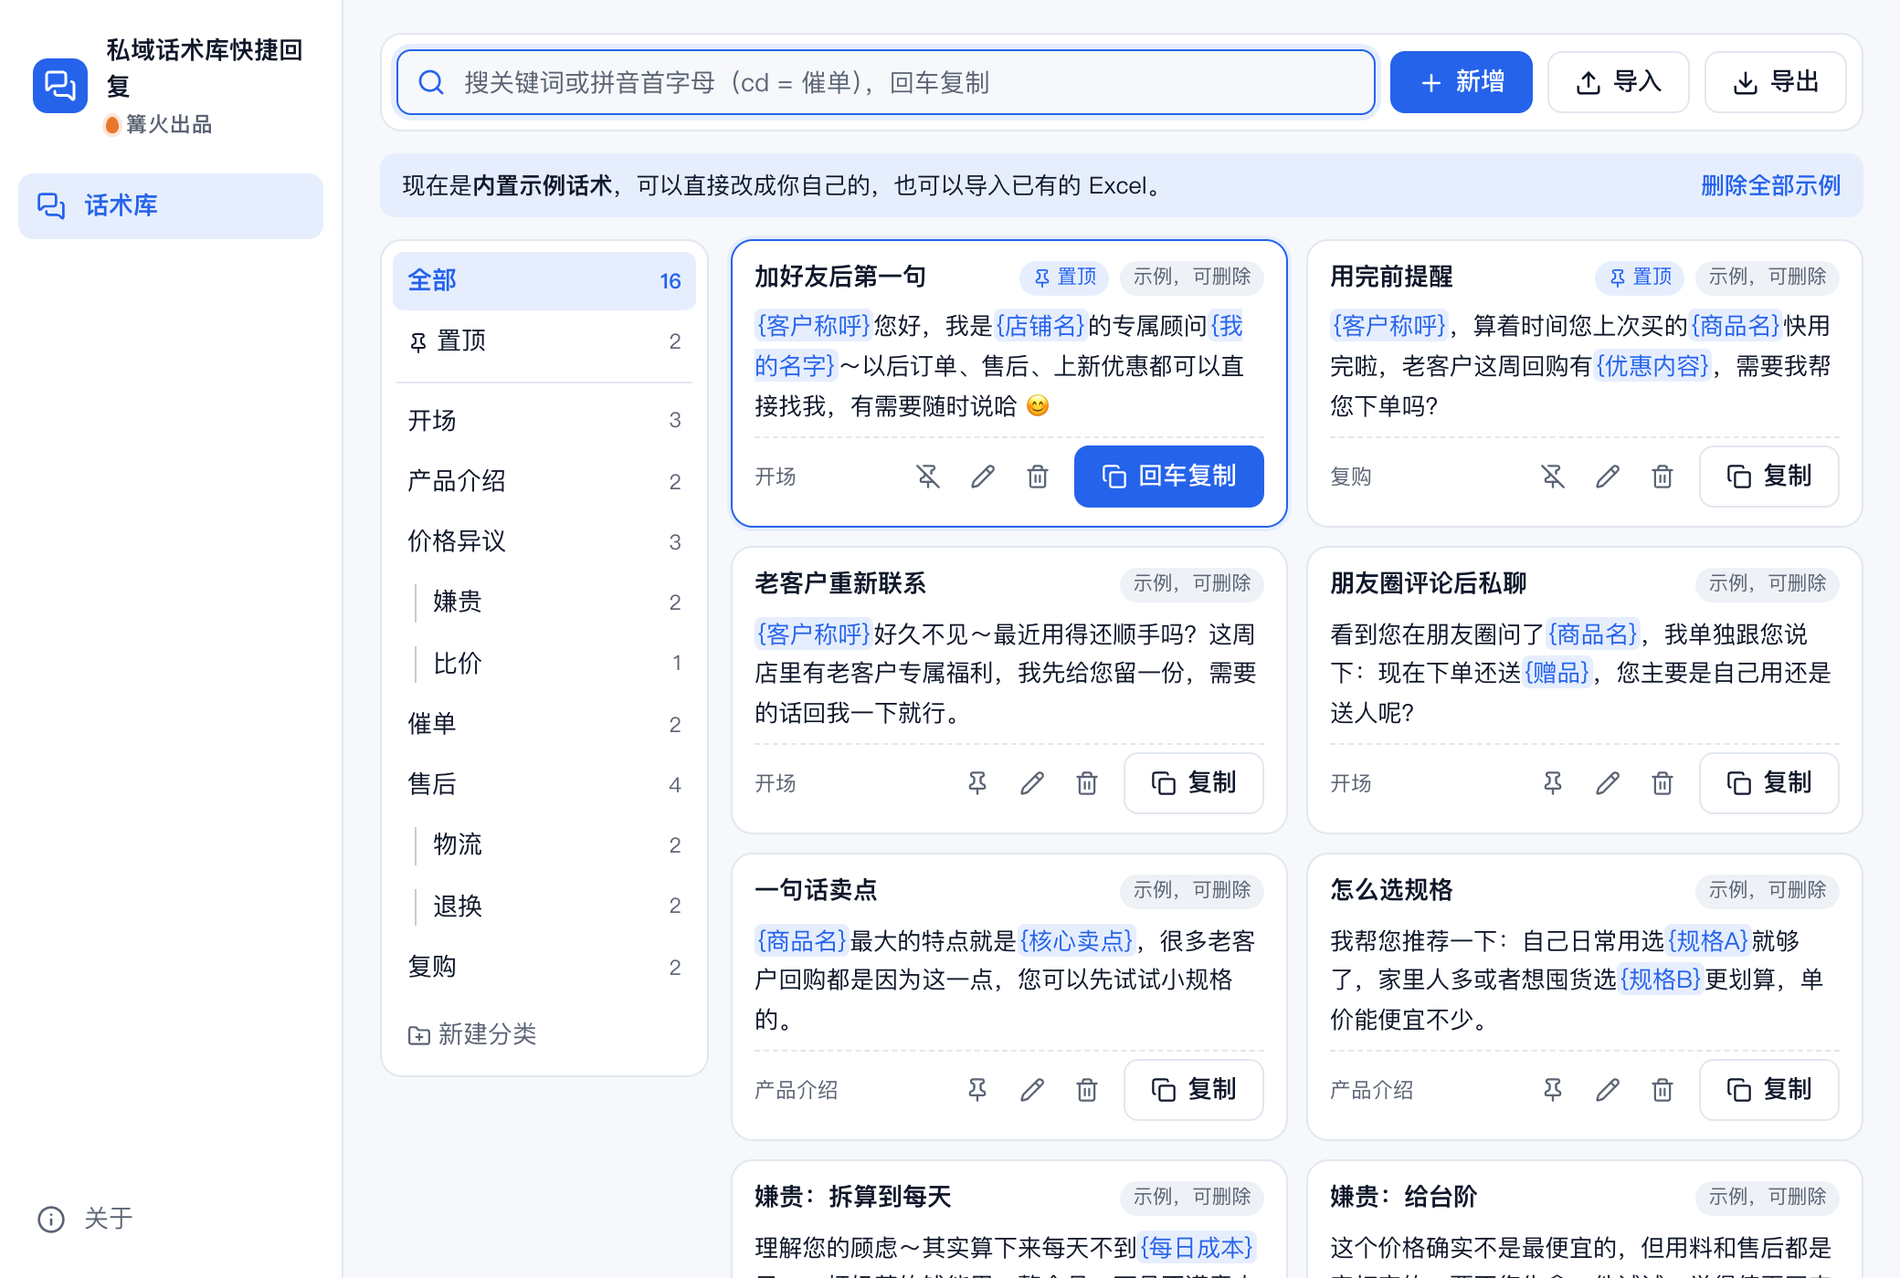
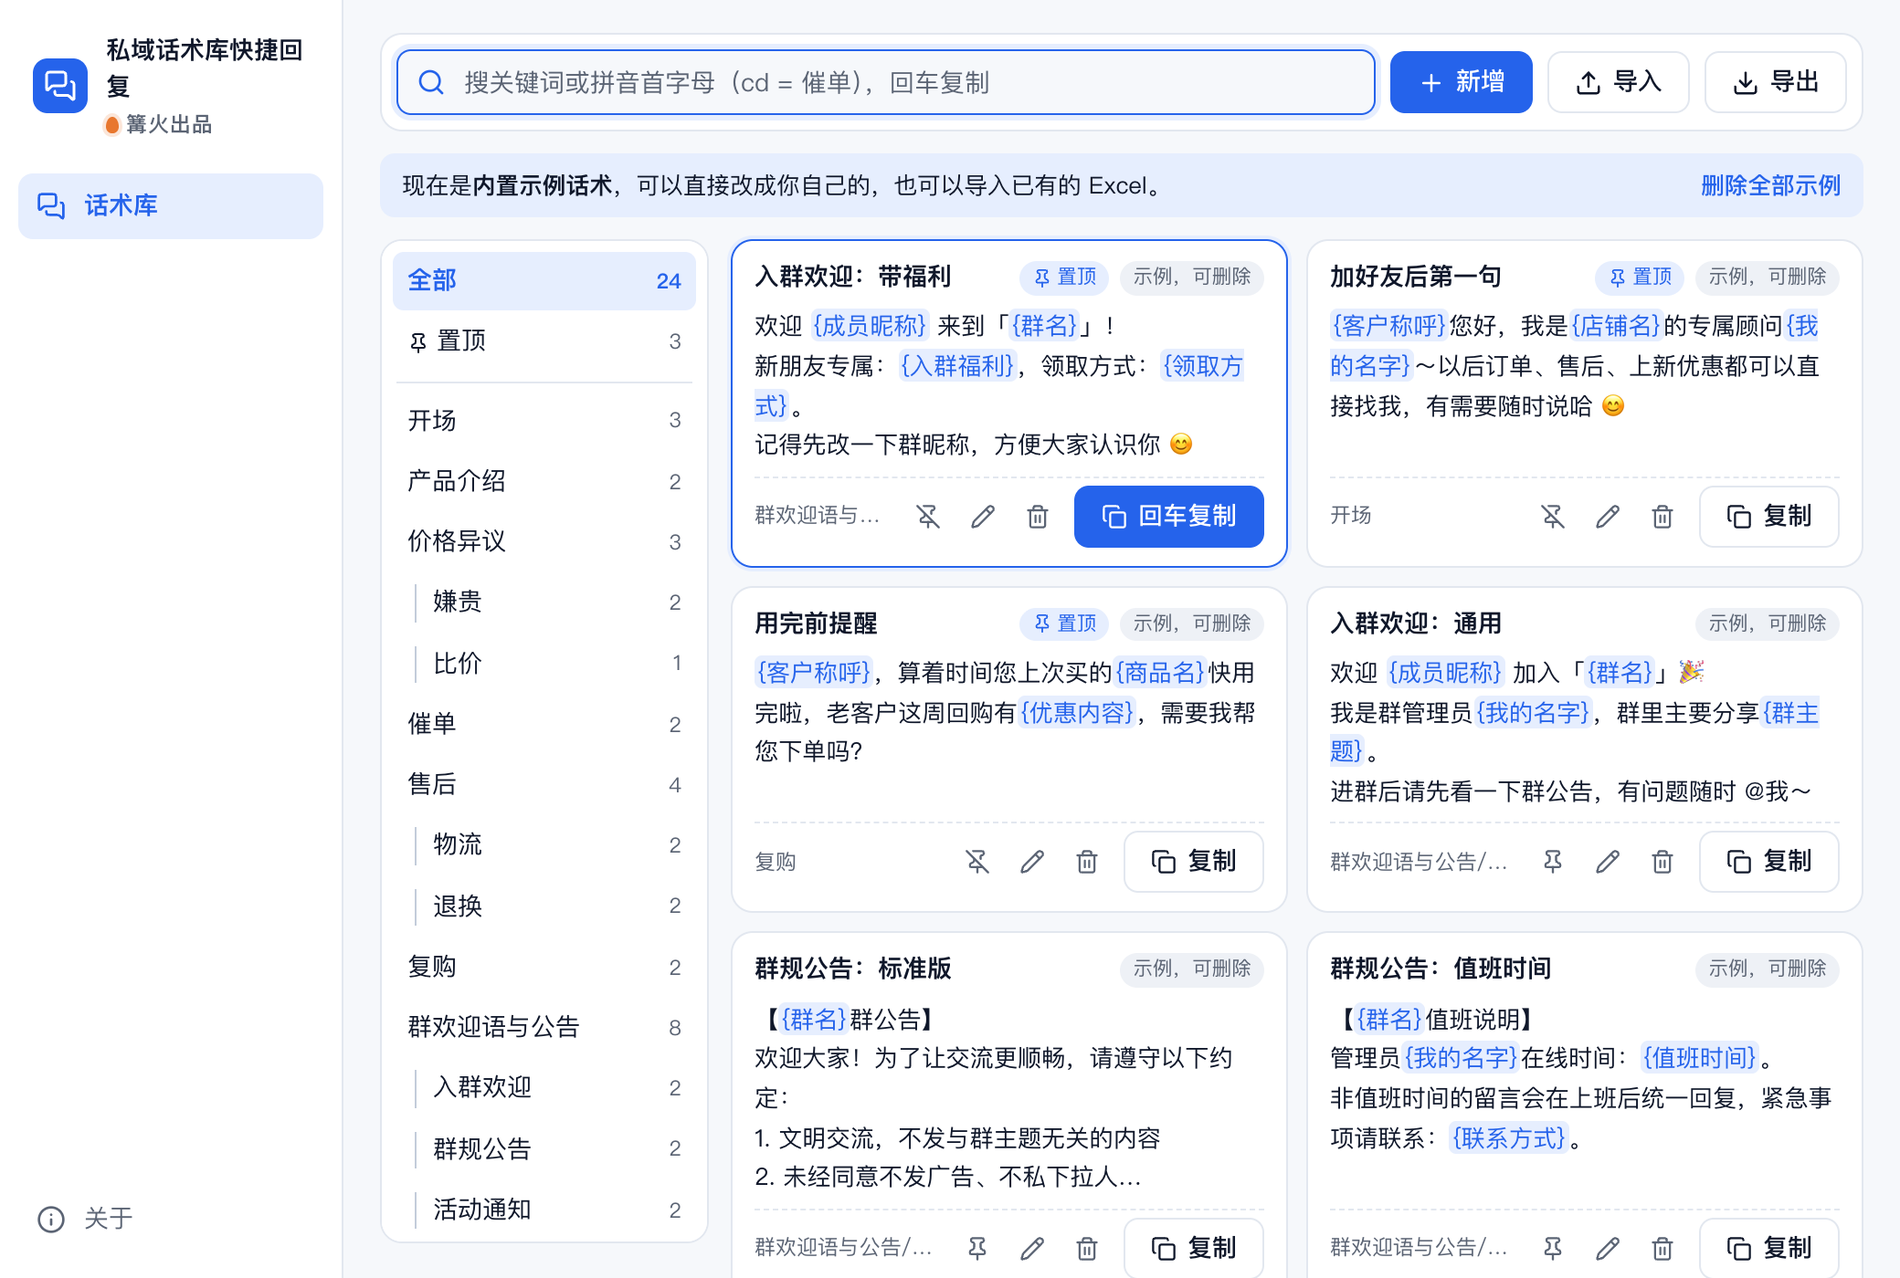
0.2.0：新增「群欢迎语与公告」模板分类（并入 w14），变量填写后输出标准文本

diff --git a/src/tool/core.test.ts b/src/tool/core.test.ts
@@ -1,9 +1,9 @@
 import { describe, expect, it } from 'vitest';
 import {
-  addCat, catTree, fillVars, fromJson, fromRows, initials, markUsed, mergeImport, normCat, parseVars, removeCat, removeSamples, renameCat, search, toRows,
+  addCat, catTree, fillVars, fromJson, normalizeText, fromRows, initials, markUsed, mergeImport, normCat, parseVars, removeCat, removeSamples, renameCat, search, toRows,
   togglePin, upsert, validLibrary, type Library, type Script,
 } from './core';
-import { sampleLibrary } from './samples';
+import { GROUP_CAT, GROUP_SEED, GROUP_SUBCATS, groupScripts, sampleLibrary, seedGroupTemplates } from './samples';
 
 const sc = (id: string, cat: string, title: string, text: string, extra: Partial<Script> = {}): Script => ({ id, cat, title, text, updatedAt: 0, ...extra });
 const lib = (scripts: Script[], cats: string[] = []): Library => ({ version: 1, cats, scripts });
@@ -136,5 +136,52 @@ describe('内置示例', () => {
     expect(l.scripts.every((s) => s.sample)).toBe(true);
     const tops = new Set(l.scripts.map((s) => s.cat.split('/')[0]));
     expect([...tops]).toEqual(['开场', '产品介绍', '价格异议', '催单', '售后', '复购']);
+  });
+});
+
+describe('群欢迎语 / 群公告模板（0.2.0）', () => {
+  const base = (): Library => ({ version: 1, cats: ['开场'], scripts: [sc('a', '开场', '旧话术', '你好')] });
+  it('内置 8 条模板，分四个二级分类，全部有变量，且都标示例', () => {
+    const g = groupScripts();
+    expect(g).toHaveLength(8);
+    expect(new Set(g.map((s) => s.cat))).toEqual(new Set(GROUP_SUBCATS.map((c) => `${GROUP_CAT}/${c}`)));
+    expect(g.every((s) => s.sample && parseVars(s.text).length >= 2)).toBe(true);
+    expect(new Set(g.map((s) => s.id)).size).toBe(8);
+  });
+  it('旧库补入一次：保留原有话术，登记分类和 seeded', () => {
+    const l = seedGroupTemplates(base());
+    expect(l.scripts).toHaveLength(9);
+    expect(l.scripts[0].id).toBe('a');
+    expect(l.seeded).toEqual([GROUP_SEED]);
+    expect(catTree(l).find((n) => n.path === GROUP_CAT)?.count).toBe(8);
+  });
+  it('已经补过的库不再补；用户删掉模板后也不会再出现', () => {
+    const once = seedGroupTemplates(base());
+    expect(seedGroupTemplates(once)).toBe(once);
+    const deleted = removeSamples(once);
+    expect(seedGroupTemplates(deleted).scripts.length).toBe(deleted.scripts.length);
+  });
+  it('seeded 能通过本机存储校验保留下来', () => {
+    expect(validLibrary(seedGroupTemplates(base()))?.seeded).toEqual([GROUP_SEED]);
+  });
+  it('分类和搜索：搜「群」「入群欢迎」能找到；拼音首字母 rqhy 命中入群欢迎', () => {
+    const l = seedGroupTemplates(base());
+    expect(search(l.scripts, '入群欢迎').length).toBe(2);
+    expect(search(l.scripts, 'rqhy').length).toBeGreaterThanOrEqual(2);
+    expect(search(l.scripts, '', GROUP_CAT).length).toBe(8);
+  });
+  it('变量替换：{群名}、{活动时间} 等替换为填写的值，没填的保留原样', () => {
+    const t = groupScripts().find((s) => s.title === '活动通知：标准版')!;
+    const out = fillVars(t.text, { 活动名: '示例沙龙', 活动时间: '10 月 30 日 19:30', 活动地点: '线上' });
+    expect(out).toContain('【示例沙龙】');
+    expect(out).toContain('时间：10 月 30 日 19:30');
+    expect(out).toContain('内容：{活动内容}');
+    const w = groupScripts().find((s) => s.title === '入群欢迎：通用')!;
+    expect(fillVars(w.text, { 群名: '示例群', 成员昵称: '小明' })).toContain('欢迎 小明 加入「示例群」');
+  });
+  it('输出标准文本：统一换行、去行尾空格、压缩多余空行、去首尾空白', () => {
+    expect(normalizeText('  第一行  \r\n第二行\t\r\n\r\n\r\n\r\n第三行\r\n')).toBe('第一行\n第二行\n\n第三行');
+    const t = groupScripts()[0];
+    expect(normalizeText(fillVars(t.text, { 群名: '示例群', 成员昵称: '小明', 我的名字: '小管', 群主题: '示例主题' }))).not.toMatch(/\r| \n/);
   });
 });

diff --git a/src/tool/samples.ts b/src/tool/samples.ts
@@ -27,3 +27,34 @@ export function sampleLibrary(): Library {
   const scripts: Script[] = S.map(([cat, title, text, pinned], i) => ({ id: `demo${i + 1}`, cat, title, text, pinned: pinned || undefined, sample: true, updatedAt: t - i * 60_000 }));
   return { version: 1, cats: [...SAMPLE_CATS], scripts };
 }
+
+// ---------- 群欢迎语 / 群公告模板（0.2.0 新增） ----------
+// 文案为本工具作者编写的通用示例，可随意修改；变量用大括号，复制前会弹出填写框。不涉及具体品牌，也不包含任何平台规则。
+export const GROUP_SEED = 'group-v1';
+export const GROUP_CAT = '群欢迎语与公告';
+const G: [string, string, string, boolean?][] = [
+  ['入群欢迎', '入群欢迎：通用', '欢迎 {成员昵称} 加入「{群名}」🎉\n我是群管理员{我的名字}，群里主要分享{群主题}。\n进群后请先看一下群公告，有问题随时 @我～'],
+  ['入群欢迎', '入群欢迎：带福利', '欢迎 {成员昵称} 来到「{群名}」！\n新朋友专属：{入群福利}，领取方式：{领取方式}。\n记得先改一下群昵称，方便大家认识你 😊', true],
+  ['群规公告', '群规公告：标准版', '【{群名}群公告】\n欢迎大家！为了让交流更顺畅，请遵守以下约定：\n1. 文明交流，不发与群主题无关的内容\n2. 未经同意不发广告、不私下拉人\n3. 有问题先看群公告，再 @{我的名字}\n感谢配合 🙏'],
+  ['群规公告', '群规公告：值班时间', '【{群名}值班说明】\n管理员{我的名字}在线时间：{值班时间}。\n非值班时间的留言会在上班后统一回复，紧急事项请联系：{联系方式}。'],
+  ['活动通知', '活动通知：标准版', '【{活动名}】\n时间：{活动时间}\n地点 / 方式：{活动地点}\n内容：{活动内容}\n报名：{报名方式}\n名额有限，先到先得，欢迎转发给身边的朋友～'],
+  ['活动通知', '活动通知：截止提醒', '【{活动名}】报名提醒⏰\n距离报名截止还有最后一段时间，截止时间：{报名截止时间}。\n还没报名的朋友请通过 {报名方式} 尽快完成，错过要等下一期啦。'],
+  ['开课提醒', '开课提醒：开课前', '【{课程名}开课提醒】\n各位同学好！课程将于 {开课时间} 开始，上课方式：{上课方式}。\n请提前 10 分钟进入，资料已发在群文件，有问题请联系{我的名字}。'],
+  ['开课提醒', '开课提醒：课后作业', '【{课程名}课后提醒】\n今天的内容已结束，课后任务：{作业内容}，请在 {提交时间} 前提交到{提交方式}。\n有不明白的地方，欢迎在群里提问。'],
+];
+export const GROUP_SUBCATS = ['入群欢迎', '群规公告', '活动通知', '开课提醒'];
+
+export function groupScripts(): Script[] {
+  const t = Date.UTC(2026, 9, 24);
+  return G.map(([sub, title, text, pinned], i) => ({ id: `grp${i + 1}`, cat: `${GROUP_CAT}/${sub}`, title, text, pinned: pinned || undefined, sample: true, updatedAt: t - i * 60_000 }));
+}
+
+/** 把群欢迎语 / 群公告模板放进话术库：每个库只放一次（记在 seeded 里），用户删掉后不会再出现；已有同分类同内容的不重复添加 */
+export function seedGroupTemplates(lib: Library): Library {
+  if (lib.seeded?.includes(GROUP_SEED)) return lib;
+  const have = new Set(lib.scripts.map((s) => `${s.cat}\u0000${s.text}`));
+  const fresh = groupScripts().filter((s) => !have.has(`${s.cat}\u0000${s.text}`));
+  const cats = [...lib.cats];
+  for (const c of [GROUP_CAT, ...GROUP_SUBCATS.map((x) => `${GROUP_CAT}/${x}`)]) if (!cats.includes(c)) cats.push(c);
+  return { ...lib, cats, scripts: [...lib.scripts, ...fresh], seeded: [...(lib.seeded ?? []), GROUP_SEED] };
+}

diff --git a/src/tool/core.ts b/src/tool/core.ts
@@ -19,6 +19,8 @@ export interface Library {
   /** 分类顺序（包括还没有话术的空分类） */
   cats: string[];
   scripts: Script[];
+  /** 已经放进库里的内置模板包（如 'group-v1'），避免用户删掉后下次打开又冒出来 */
+  seeded?: string[];
 }
 
 let seq = 0;
@@ -133,6 +135,11 @@ export function parseVars(text: string): string[] {
     if (name && !out.includes(name)) out.push(name);
   }
   return out;
+}
+
+/** 输出标准文本：统一换行为 \n，去掉每行行尾空格，连续空行压成一行，去掉首尾空白 */
+export function normalizeText(text: string): string {
+  return text.replace(/\r\n?/g, '\n').split('\n').map((l) => l.replace(/[ \t\u3000]+$/, '')).join('\n').replace(/\n{3,}/g, '\n\n').trim();
 }
 
 /** 把变量替换成填写的值；没填的变量原样保留，避免误发出空白 */
@@ -282,7 +289,8 @@ export function validLibrary(v: unknown): Library | null {
   const o = v as Library;
   if (!o || o.version !== 1 || !Array.isArray(o.cats) || !Array.isArray(o.scripts)) return null;
   const scripts = o.scripts.filter((s) => s && typeof s.id === 'string' && typeof s.text === 'string' && typeof s.cat === 'string');
-  return { version: 1, cats: o.cats.filter((c) => typeof c === 'string'), scripts: scripts.map((s) => ({ ...s, title: String(s.title ?? ''), updatedAt: Number(s.updatedAt) || 0 })) };
+  const seeded = Array.isArray(o.seeded) ? o.seeded.filter((c) => typeof c === 'string') : undefined;
+  return { version: 1, seeded, cats: o.cats.filter((c) => typeof c === 'string'), scripts: scripts.map((s) => ({ ...s, title: String(s.title ?? ''), updatedAt: Number(s.updatedAt) || 0 })) };
 }
 
 export const toJson = (lib: Library) => JSON.stringify({ ...lib, exportedBy: '篝火 · 私域话术库快捷回复' }, null, 2);

diff --git a/src/tool/Main.tsx b/src/tool/Main.tsx
@@ -5,7 +5,7 @@ import { save } from '@tauri-apps/plugin-dialog';
 import type { RunContext } from '../kit/types';
 import { onFileDrop, pickFiles, reveal } from '../kit/platform';
 import {
-  addCat, catTree, fillVars, markUsed, newId, normCat, parseVars, removeCat, removeSamples, removeScript, renameCat, search, togglePin, upsert,
+  addCat, catTree, fillVars, markUsed, newId, normCat, normalizeText, parseVars, removeCat, removeSamples, removeScript, renameCat, search, togglePin, upsert,
   type Library, type Script,
 } from './core';
 import { exportFile, importFile, IMPORT_EXT, type FileIO } from './io';
@@ -21,7 +21,7 @@ type Dialog =
   | { kind: 'cat'; from: string | null; value: string }
   | null;
 
-const QUICK_VARS = ['客户称呼', '我的名字', '店铺名', '商品名', '优惠内容'];
+const QUICK_VARS = ['客户称呼', '我的名字', '店铺名', '商品名', '优惠内容', '群名', '活动时间'];
 
 /** 把话术里的 {变量} 标出来 */
 function Highlight({ text }: { text: string }) {
@@ -278,7 +278,7 @@ export function QuickReply({ ctx }: { ctx: Ctx }) {
               const v = { ...vars, ...values };
               setVars(v);
               saveVars(v);
-              writeClipboard(fillVars(dialog.script.text, values), dialog.script);
+              writeClipboard(normalizeText(fillVars(dialog.script.text, values)), dialog.script);
               close();
             }} />}
             {dialog.kind === 'confirm' && (

diff --git a/src/tool/store.ts b/src/tool/store.ts
@@ -1,21 +1,24 @@
 // 话术库保存在本机应用数据目录的 settings.json（kit 的 settingsStore），键名 library.w12。
 import { settingsStore } from '../kit/platform';
 import { validLibrary, type Library } from './core';
-import { sampleLibrary } from './samples';
+import { sampleLibrary, seedGroupTemplates } from './samples';
 
 const KEY = 'library.w12';
 const VARS_KEY = 'vars.w12';
 
-/** 读取话术库；第一次打开或读不到（例如开发预览）时用内置示例 */
+/** 读取话术库；第一次打开或读不到（例如开发预览）时用内置示例。0.2.0 起旧库也会补入一次「群欢迎语与公告」模板（saved=false 时由界面写回） */
 export async function loadLibrary(): Promise<{ lib: Library; saved: boolean }> {
   try {
     const st = await settingsStore();
     const v = validLibrary(await st.get(KEY));
-    if (v) return { lib: v, saved: true };
+    if (v) {
+      const seeded = seedGroupTemplates(v);
+      return { lib: seeded, saved: seeded === v };
+    }
   } catch {
     /* 预览环境没有本机存储 */
   }
-  return { lib: sampleLibrary(), saved: false };
+  return { lib: seedGroupTemplates(sampleLibrary()), saved: false };
 }
 
 export async function saveLibrary(lib: Library): Promise<boolean> {

diff --git a/README.md b/README.md
@@ -27,9 +27,10 @@
 3. **变量**：话术里用大括号写要每次替换的地方，比如 `{客户称呼}`、`{快递单号}`。复制前会弹出填写框，填完回车就复制好了；上次填过的值（如「我的名字」「店铺名」）会自动带出，没填的变量保留原样，方便你发出前发现。
 4. **分类**：左侧是分类树，用「/」可以建二级分类（如「售后/物流」）；鼠标移到分类上可以重命名或删除（只能删空分类）。「置顶」里是所有置顶话术。
 5. **新增 / 编辑 / 删除 / 置顶**：右上角「新增」（快捷键 ⌘/Ctrl + N），卡片底部的图标可以置顶、编辑、删除。置顶的话术永远排在最前面，其次按搜索匹配度和复制次数排序。
-6. **示例话术**：第一次打开会放入 16 条示例（标有「示例，可删除」），可以直接改成自己的，或点顶部「删除全部示例」一次删掉。
+6. **示例话术**：第一次打开会放入 24 条示例（16 条销售话术 + 8 条群欢迎语 / 群公告模板，都标有「示例，可删除」），可以直接改成自己的，或点顶部「删除全部示例」一次删掉。
 7. **导入**：点「导入」或直接把文件拖进窗口，支持 `.xlsx`、`.csv`、`.json`。表格第一行是表头，识别「分类 / 标题 / 话术内容 / 置顶」（也认「场景」「话术」「内容」等写法，列顺序不限）；同一分类下内容相同的话术会自动跳过，不会重复。
-8. **导出**：「导出 → 导出 Excel」方便发给同事；「导出 JSON 备份」是完整备份（含空分类），换电脑时导入即可恢复。
+8. **群欢迎语 / 群公告模板（0.2.0 新增）**：左侧「群欢迎语与公告」分类下有入群欢迎、群规公告、活动通知、开课提醒共 8 条示例模板，文案是通用示例，请按自己的群改写。变量写法同上，如 `{群名}`、`{成员昵称}`、`{活动名}`、`{活动时间}`、`{开课时间}`；点复制会弹出填写框，填完回车，剪贴板里就是替换好的标准文本（统一换行、去掉行尾空格、连续空行合并为一行；没填的变量保留 `{…}` 原样以便发现）。新增 / 编辑话术时可点「插入变量」里的 `{群名}`、`{活动时间}` 等。从 0.1.0 升级的话术库会自动补入这 8 条（只补一次，删掉后不会再出现，原有话术不受影响）。
+9. **导出**：「导出 → 导出 Excel」方便发给同事；「导出 JSON 备份」是完整备份（含空分类），换电脑时导入即可恢复。
 
 **数据存在哪**：话术库只保存在本机的 `settings.json`（键名 `library.w12`），不联网、不上传：
 - Mac：`~/Library/Application Support/com.campfirecode.scriptquickreply/settings.json`
@@ -41,10 +42,13 @@
 
 | 操作 | 应得到 |
 |---|---|
-| 第一次打开 | 左侧分类：开场、产品介绍、价格异议（嫌贵、比价）、催单、售后（物流、退换）、复购；「全部」16 条，每张卡片标「示例，可删除」；光标在搜索框里 |
+| 第一次打开 | 左侧分类：开场、产品介绍、价格异议（嫌贵、比价）、催单、售后（物流、退换）、复购、群欢迎语与公告（入群欢迎、群规公告、活动通知、开课提醒）；「全部」24 条，每张卡片标「示例，可删除」；光标在搜索框里 |
+| 点左侧「群欢迎语与公告」 | 显示 8 条模板，「入群欢迎：带福利」带置顶标记 |
+| 搜索框输入 `rqhy` 回车 | 命中「入群欢迎：…」；弹出填写框，有「成员昵称」「群名」「我的名字」等项。「群名」填「示例群」、「成员昵称」填「小明」后回车，剪贴板内容为「欢迎 小明 加入「示例群」🎉」开头，没填的变量保留 `{…}` 原样 |
+| 选「活动通知：标准版」，点复制 | 填写框有「活动名」「活动时间」「活动地点」「活动内容」「报名方式」五项；「活动时间」填「10 月 30 日 19:30」，其余留空回车，剪贴板里「时间：10 月 30 日 19:30」，其余仍是 `{活动名}` 等原样 |
 | 直接输入 `cwl`，按回车 | 只剩「查物流」一张卡片；弹出填写框，有「客户称呼」「快递单号」「到货时间」三项。填「王姐」后回车，剪贴板内容以「王姐您好，帮您查了下」开头，提示「已复制「查物流」」 |
 | 搜索框输入 `嫌贵` | 先显示标题含「嫌贵」的两条（嫌贵：拆算到每天、嫌贵：给台阶） |
-| 点「导入」，选 `samples/我的话术.xlsx` | 提示「从「我的话术.xlsx」导入 6 条话术（1 条重复已跳过）」（文件里有一条重复话术和一个空行）；「全部」变为 22；「社群欢迎语」带置顶标记 |
+| 点「导入」，选 `samples/我的话术.xlsx` | 提示「从「我的话术.xlsx」导入 6 条话术（1 条重复已跳过）」（文件里有一条重复话术和一个空行）；「全部」变为 30；「社群欢迎语」带置顶标记 |
 | 把 `samples/话术备份.json` 拖进窗口 | 新增分类「节日活动」，导入 2 条，「双十一预热」置顶 |
 | 点「删除全部示例」→「删除示例」 | 只剩导入的 8 条，顶部提示条消失 |
 | 「导出 → 导出 Excel」保存为 `话术库.xlsx` | 表格有「分类、标题、话术内容、置顶」四列，8 行数据；再导入这个文件提示「导入 0 条话术（8 条重复已跳过）」 |

diff --git a/CHANGELOG.md b/CHANGELOG.md
@@ -1,5 +1,10 @@
 # 更新记录
 
+## 0.2.0
+
+- 新增内置分类「群欢迎语与公告」（入群欢迎、群规公告、活动通知、开课提醒共 8 条示例模板，可改可删），支持 `{群名}`、`{活动时间}` 等变量；复制前填写变量，输出的文本统一换行并去掉行尾空格。
+- 已有话术库升级后自动补入一次，不会覆盖、也不会在删除后再次出现。
+
 ## 0.1.0
 
 - 首个版本。
